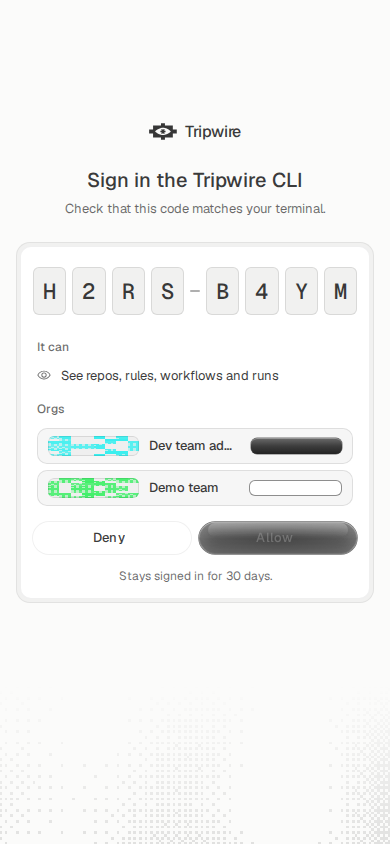
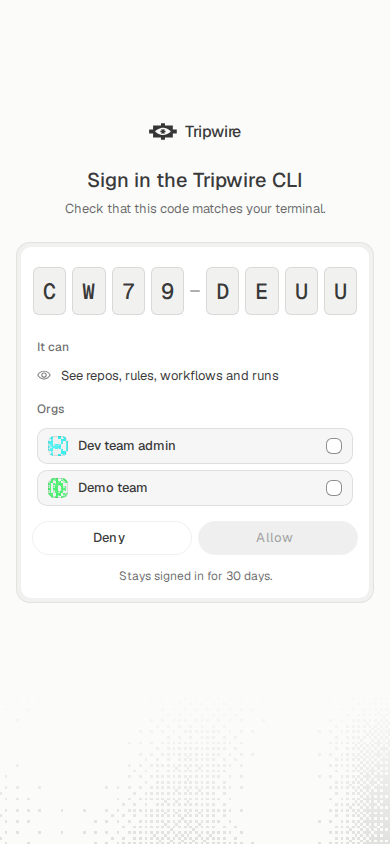
fix(ui): harden contextual navigation and agent grants

diff --git a/apps/web/src/components/common/history-back-control.tsx b/apps/web/src/components/common/history-back-control.tsx
@@ -1,4 +1,4 @@
-import { useRouter, useRouterState } from "@tanstack/react-router";
+import { useHydrated, useRouter, useRouterState } from "@tanstack/react-router";
 import { ArrowLeft, Icon } from "#/design-system/icon";
 
 interface HistoryBackControlProps {
@@ -6,10 +6,12 @@ interface HistoryBackControlProps {
 }
 
 export function useCanGoBack() {
+	const hydrated = useHydrated();
 	const router = useRouter();
-	return useRouterState({
+	const canGoBack = useRouterState({
 		select: () => router.history.canGoBack(),
 	});
+	return hydrated && canGoBack;
 }
 
 export function HistoryBackControl({

diff --git a/apps/web/src/components/common/history-back-control.test.tsx b/apps/web/src/components/common/history-back-control.test.tsx
@@ -35,10 +35,8 @@ describe("HistoryBackControl", () => {
 		);
 	});
 
-	test("is present after an in-app navigation", async () => {
+	test("stays absent from server markup when browser history will exist", async () => {
 		const markup = await renderBackControl(["/", "/?detail=run-1"]);
-		expect(markup).toContain('data-layout-role="history-back-control"');
-		expect(markup).toContain('aria-label="Back"');
-		expect(markup).toContain(">Back<");
+		expect(markup).not.toContain("history-back-control");
 	});
 });

diff --git a/apps/web/src/components/agents/agent-request-card.test.tsx b/apps/web/src/components/agents/agent-request-card.test.tsx
@@ -67,4 +67,12 @@ describe("AgentRequestCard", () => {
 		expect(checkedOrgs(html)).toEqual(["tripwire"]);
 		expect(allowDisabled(html)).toBe(false);
 	});
+
+	test("only organization names receive the flexible text role", () => {
+		const html = render(ORGS, "tripwire");
+		expect(html.match(/data-layout-role="agent-org-name"/g)).toHaveLength(3);
+		expect(html).not.toMatch(
+			/data-layout-role="agent-org-name"[^>]*data-slot="checkbox"/,
+		);
+	});
 });

diff --git a/apps/web/src/components/agents/agent-request-card.tsx b/apps/web/src/components/agents/agent-request-card.tsx
@@ -93,7 +93,7 @@ export function AgentRequestCard({
 									key={org.id}
 								>
 									<OrgAvatar hue={org.avatarHue} name={org.name} />
-									<span>{org.name}</span>
+									<span data-layout-role="agent-org-name">{org.name}</span>
 									<Checkbox
 										checked={checked}
 										id={`agent-org-${org.id}`}

diff --git a/apps/web/src/design-system/layout-contract.css b/apps/web/src/design-system/layout-contract.css
@@ -424,7 +424,7 @@
 	cursor: pointer;
 }
 
-[data-layout-role="agent-org-option"] > span {
+[data-layout-role="agent-org-name"] {
 	flex: 1;
 	min-inline-size: 0;
 	overflow: hidden;

diff --git a/.design-system/agent-auth-family/report.md b/.design-system/agent-auth-family/report.md
@@ -20,6 +20,7 @@ Verified on `localhost:3001` with disposable state and a real Better Auth device
 
 - Empty device-code entry at 390px.
 - Ready device request with scopes and two organization choices.
+- Organization avatars and checkboxes retain intrinsic widths while only the organization name flexes.
 - Organization selection enables approval.
 - Real approval mutation reaches the signed-in success state.
 - Expired device code.
